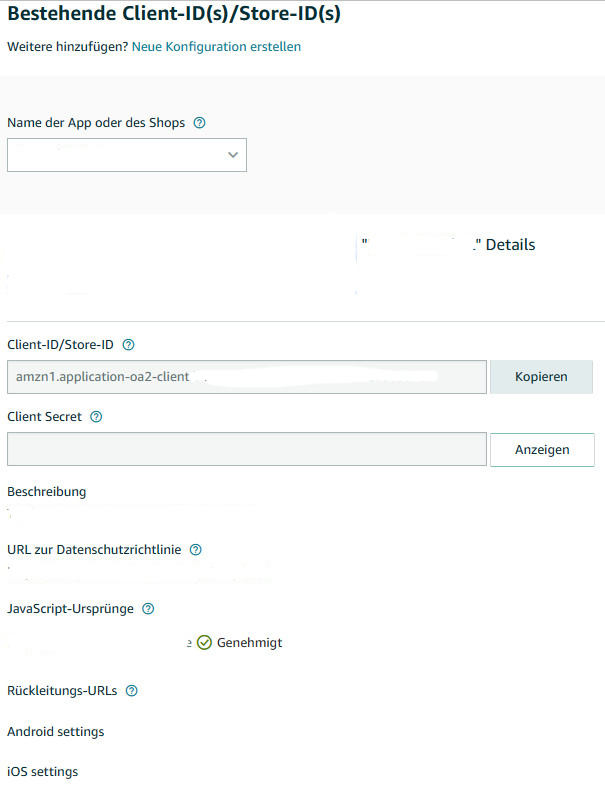
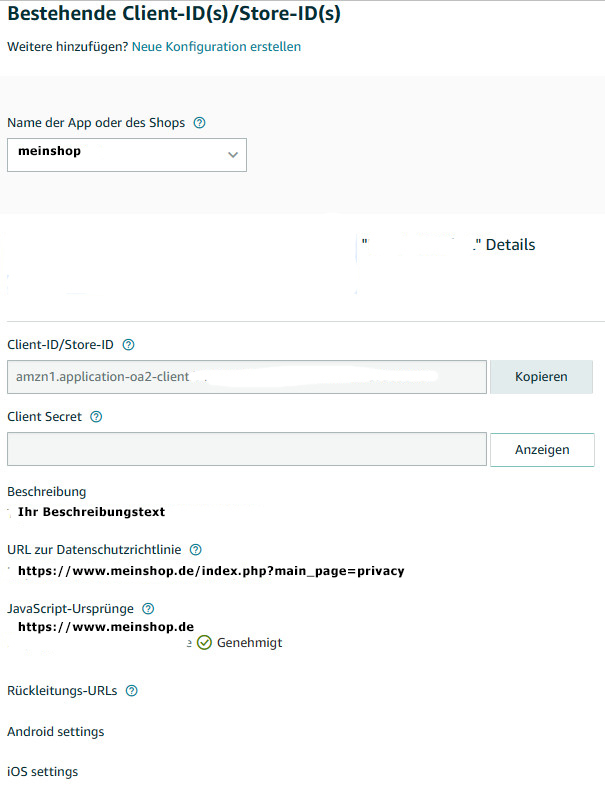
Anleitung aktualisiert

diff --git a/ANLEITUNG/index.html b/ANLEITUNG/index.html
@@ -173,12 +173,13 @@ $(document).ready(function(){
         </div>
         <div class="overflow-hidden content-section" id="content-vorbereitungen">
             <h2>Vorbereitungen bei Amazon</h2>
-            <p>Bevor Sie dieses Modul installieren können, nehmen Sie zunächst grundlegende wichtige Einstellungen in Ihrem Amazon Seller Central Account vor. Loggen Sie sich also zunächst in Ihren Account ein auf:<br>
+            <p>Bevor Sie dieses Modul installieren können, nehmen Sie zunächst grundlegende wichtige Einstellungen in Ihrem Amazon Seller Central Account vor.<br>
+            Loggen Sie sich also zunächst in Ihren Account ein auf:<br>
   <a href="https://sellercentral-europe.amazon.com/home" target="_blank">https://sellercentral-europe.amazon.com/home</a><br>
   Dort gibt es getrennte Umgebungen für Sandbox und Produktivsystem.<br>
   Wählen Sie zunächst &quot;Amazon Pay Sandbox Ansicht&quot;
 </p>
-<p>Führen Sie die folgende Schritte vollständig durch:<br>
+<p>Führen Sie die folgenden Schritte vollständig durch:<br>
   <br>
   <strong>I SANDBOX </strong></p>
 <p><strong>1) Client-ID-/Store-ID-Konfigurationen anlegen/verwalten</strong><br>
@@ -191,22 +192,24 @@ $(document).ready(function(){
   (In diesen Beispielen wird als Shopadresse https://www.meinshop.de verwendet, ersetzen Sie das mit Ihrer echten Adresse
   <br>
   <br>
-  Name der App oder des Shops:<br>
+  <strong>Name der App oder des Shops:</strong><br>
   Geben Sie den Namen Ihres Shops ein<br>
   <br>
-  Logo hochladen:<br>
+  <strong>Logo hochladen:</strong><br>
   Laden Sie ein Logo hoch, das dann später in den Amazon Popups angezeigt wird<br>
   <br>
-  URL der Datenschutzrichtlinie:<br>
+  <strong>URL der Datenschutzrichtlinie:</strong><br>
   Die Datenschutzseite Ihres Zen Cart Shops hat in der Regel folgende
   Adresse:<br>
-  https://www.meinshop.de/index.php?main_page=privacy
+  https://www.meinshop.de/<strong>index.php?main_page=privacy</strong><br>
   <br>
-  <br>
-  Zulässige Javascript Ursprünge:<br>
+  <strong>Zulässige Javascript Ursprünge:</strong><br>
   Tragen Sie hier die URL ein, auf der Ihr Shop läuft, z.B.<br>
-  https://www.meinshop.de
-  <br>
+  https://www.meinshop.de<br/>
+  Geben Sie lediglich die Haupt URL an. Falls Ihr Shop in einem Unterverzeichnis läuft, z.B. https://www.meinshop.de/shop, dann geben Sie trotzdem an:<br>
+  https://www.meinshop.de<br/>
+  Läuft Ihr Shop auf einer Subdomain, z.B. https://shop.meinewebsite.de, dann geben Sie die Subdomain an:<br>
+  https://shop.meinewebsite.de
   <br>
   Die restlichen Felder lassen Sie leer.<br>
   <br>
@@ -221,10 +224,10 @@ $(document).ready(function(){
 <p><strong>2) API Anmeldedaten für Sandbox erstellen in Integration Central</strong><br>
   <br>
   Gehen Sie nun (weiterhin in der Sandbox Ansicht) auf Integration Central.</p>
-<p>Wählen Sie bei E-Commerce Anbieter oder Integrationstyp:<br>
+<p>Wählen Sie bei <strong>E-Commerce Anbieter oder Integrationstyp</strong>:<br>
 Selbst entwickelt<br>
 <br>
-Wählen Sie bei Zahlungstyp:<br>
+Wählen Sie bei <strong>Zahlungstyp</strong>:<br>
 Einmalzahlung  <br>
   <br>
   <img src="images/amazonpayv2-1.jpg" width="696" height="308"  alt=""/><br>
@@ -274,7 +277,7 @@ Einmalzahlung  <br>
   <img src="images/amazonpayv2-5.jpg" width="505" height="73"  alt=""/><br>
   <br>
   <img src="images/amazonpayv2-6.jpg" width="513" height="195"  alt=""/></p>
-<p>Dort gehen Sie auf den Link Integration Central:<br>
+<p>Dort gehen Sie <strong>unten auf den Link Integration Central</strong>:<br>
   <br>
   <img src="images/amazonpayv2-7.jpg" width="488" height="618"  alt=""/><br>
   Dort erstellen Sie nun genau wie vorher Ihre API Keys für den Livebetrieb:<br>
@@ -520,16 +523,23 @@ Achten Sie darauf, dass Sie aus Ihrem Amazon Seller Central Account ausgeloggt s
   Anclicken des Amazon Pay Buttons startet dann den Checkout.<br><br>
   Der Kunde kommt auf die Amazon Zahlungsseite und kann hier Lieferadresse und bei Amazon hinterlegte Zahlungsart bei Bedarf ändern.<br>
   <img src="images/amazonpayv2-18.jpg"  alt=""/><br>
-  Nach dieser Bestätigung kommt er in den Shop zurück auf die neue von diesem Modul mitgelieferte Seite checkout_shipping_amazon<br>
+  Das Modul übergibt die Länder, an die vom Shop nicht geliefert wird (Länder & Steuern > Länder > Status = rot), daher ist es nicht möglich, dass Kunden eine Lieferadresse auswählen, an die Sie nicht liefern.<br/>Bei der Auswahl der Lieferadresse aus dem Amazon Adressbuch erscheint bereits ein entsprechender Hinweis:<br/>
+  <img src="images/amazonpayv2-36.jpg"  alt=""/> <br>
+  Wird sie trotzdem gewählt, wird das von Amazon verhindert:<br>
+  <img src="images/amazonpayv2-37.jpg"  alt=""/><br>
+  Hinweis:<br>
+  Werden Downloadartikel bestellt, wird bei Amazon erst gar keine Lieferadressenauswahl angeboten.
+  <br/><br>
+   Nach Auswahl der Lieferadresse mit "zur Kasse gehen" kommt der Kunde in den Shop zurück auf die neue von diesem Modul mitgelieferte Seite <strong>checkout_shipping_amazon</strong><br>
   <img src="images/amazonpayv2-19.jpg"  alt=""/><br>
   Die Lieferadresse wurde hier mit der zuvor bei Amazon gewählten Lieferadresse befüllt.<br>
 Hier wählt der Kunde die gewünschte Versandart.<br><br>
-Danach kommt er auf die neue von diesem Modul mitgelieferte Seite checkout_payment_amazon.<br>
+Danach kommt er auf die neue von diesem Modul mitgelieferte Seite <strong>checkout_payment_amazon</strong>.<br>
 <img src="images/amazonpayv2-20.jpg"  alt=""/><br>
 Hier muss keine Zahlungsart mehr gewählt werden, es ist automatisch Amazon Pay hinterlegt.<br>
 Diese Seite dient dazu, Aktionskupons und Geschenkgutscheinguthaben ganz normal verarbeiten zu können.<br>
 Hier befindet sich auch die nötige Zustimmung zu den AGB.<br><br>
-Mit Click auf Weiter kommt der Kunde dann auf die neue von diesem Modul mitgelieferte Seite checkout_confirmation_amazon.<br>
+Mit Click auf Weiter kommt der Kunde dann auf die neue von diesem Modul mitgelieferte Seite <strong>checkout_confirmation_amazon</strong>.<br>
 <img src="images/amazonpayv2-21.jpg"  alt=""/><br> Hier erscheint nochmal die Übersicht der Bestellung. <br>
 Die Lieferadresse kann hier nochmals korrigiert werden, beim Anclicken der Buttons dazu öffnet sich wieder die Amazon Seite, wo der Kunde eine andere Lieferadresse aus seinem Adressbuch wählen kann. Oder falls nötig eine andere bei Amazon hinterlegte Zahlungsart.<br>
 <img src="images/amazonpayv2-30.jpg"  alt=""/><br>
